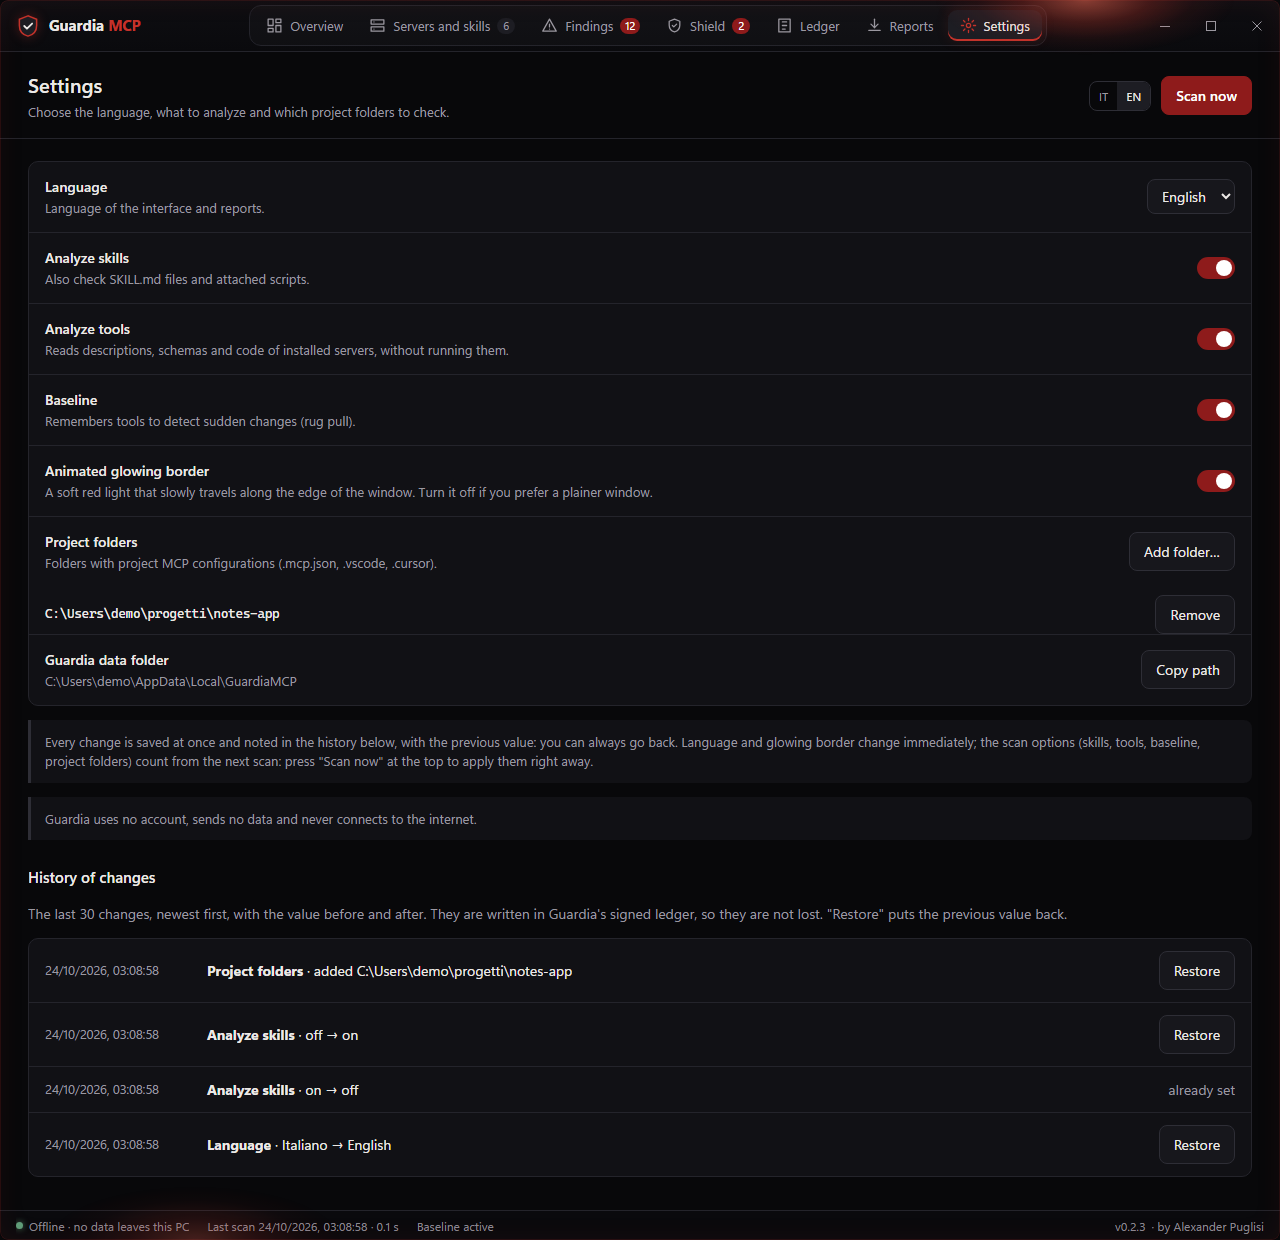
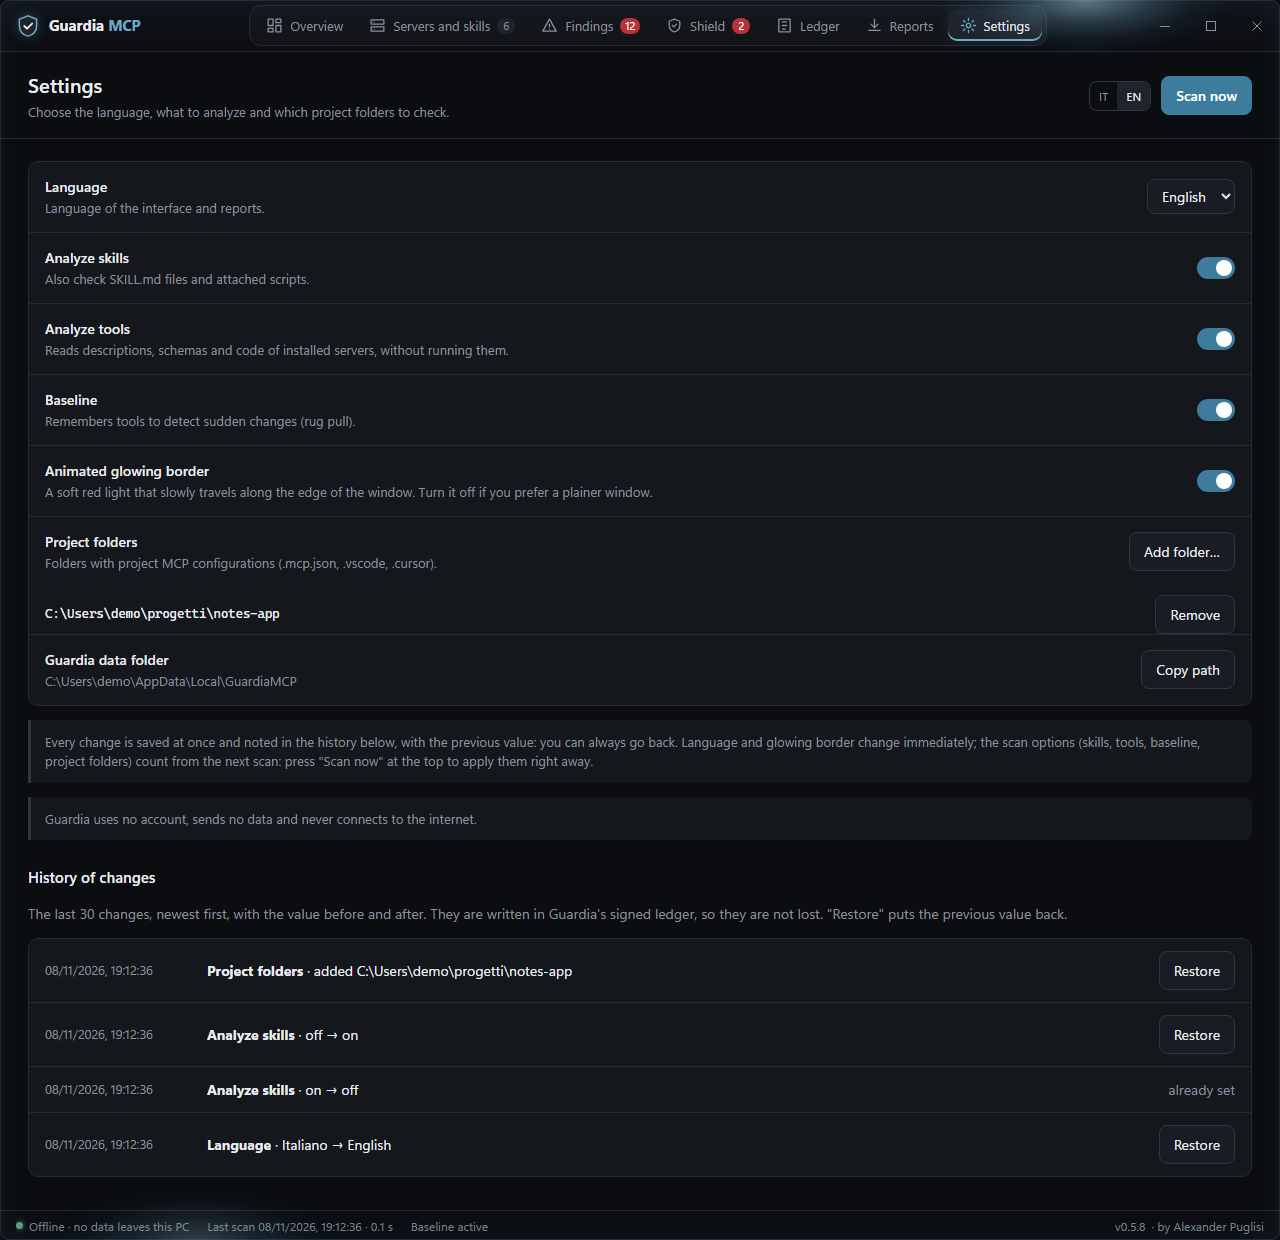
release: 0.5.8 — graphite identity
Bumps the version to 0.5.8 (pyproject, package and uv.lock), adds the
0.5.8 changelog entry, points the README download at the 0.5.8 zip and
describes the new steel-blue shield icon in the README and both guides.
The guide screenshots and the README demo GIFs are rebuilt from fake
data with the project's own scripts, so they show the new look.

diff --git a/src/guardia/__init__.py b/src/guardia/__init__.py
@@ -1,1 +1,1 @@
-__version__ = "0.5.7"
+__version__ = "0.5.8"

diff --git a/README.md b/README.md
@@ -40,7 +40,7 @@ asks you first.
 <sub>The demo runs on a fake PC made of fake servers and skills written for the purpose
 (`scripts/demo.py`): no real data, no real secrets.</sub>
 
-**Status: version 0.5.7 — v1 (static analysis) and v2 (real-time Shield for local stdio servers).**
+**Status: version 0.5.8 — v1 (static analysis) and v2 (real-time Shield for local stdio servers).**
 
 - `guardia inventory` — finds the MCP servers and skills configured on this PC in the supported apps
   (Claude Desktop, Claude Code, Cursor, VS Code, Windsurf, Gemini CLI, Codex, Copilot CLI) and lists
@@ -147,7 +147,7 @@ never uses the network). Restore it into a folder of your choice with
 
 Prefer pictures? Follow the [step-by-step guide with screenshots](docs/GUIDE.md).
 
-1. **Download** `GuardiaMCP-0.5.7-windows-x64.zip` and `SHA256SUMS.txt` from the project's
+1. **Download** `GuardiaMCP-0.5.8-windows-x64.zip` and `SHA256SUMS.txt` from the project's
    [**Releases**](https://github.com/AlexanderPuglisi/GuardiaMCP/releases/latest) page on GitHub
    and check the zip: the [guide](docs/GUIDE.md#1-download-and-check) has two PowerShell lines to
    paste, which must print `True`.
@@ -156,7 +156,7 @@ Prefer pictures? Follow the [step-by-step guide with screenshots](docs/GUIDE.md)
    Protected servers start Guardia from this folder: if you move it, press **Relink to this
    Guardia** in the *Shield* section; if you want to delete it, first remove the protection (see
    *Uninstall*).
-3. **Open `GuardiaMCP.exe`** (the one with the red shield icon). The first time Windows SmartScreen
+3. **Open `GuardiaMCP.exe`** (the one with the steel-blue shield icon). The first time Windows SmartScreen
    may warn you, because the program is not code-signed yet: choose *More info* → *Run anyway*. The
    first scan starts by itself.
 4. **Read the results.** The card at the top gives the verdict in one sentence; *Findings* lists the
@@ -319,7 +319,7 @@ conferma.
 <sub>La demo gira su un PC finto, fatto di server e skill finti scritti apposta
 (`scripts/demo.py`): nessun dato vero, nessun segreto vero.</sub>
 
-**Stato: versione 0.5.7 — v1 (analisi statica) e v2 (Scudo in tempo reale per i server locali stdio).**
+**Stato: versione 0.5.8 — v1 (analisi statica) e v2 (Scudo in tempo reale per i server locali stdio).**
 
 - `guardia inventario` — trova i server MCP e le skill configurati sul PC nelle app supportate
   (Claude Desktop, Claude Code, Cursor, VS Code, Windsurf, Gemini CLI, Codex, Copilot CLI) e li
@@ -434,7 +434,7 @@ Copia il file che crea su una chiavetta o un altro computer: quella è la tua co
 
 Preferisci le foto? Segui la [guida passo passo con le schermate](docs/GUIDA.md).
 
-1. **Scarica** `GuardiaMCP-0.5.7-windows-x64.zip` e `SHA256SUMS.txt` dalla pagina
+1. **Scarica** `GuardiaMCP-0.5.8-windows-x64.zip` e `SHA256SUMS.txt` dalla pagina
    [**Releases**](https://github.com/AlexanderPuglisi/GuardiaMCP/releases/latest) del progetto su
    GitHub e controlla lo zip: nella [guida](docs/GUIDA.md#1-scarica-e-controlla) ci sono due righe
    da incollare in PowerShell, che devono stampare `True`.
@@ -443,7 +443,7 @@ Preferisci le foto? Segui la [guida passo passo con le schermate](docs/GUIDA.md)
    I server protetti avviano Guardia da questa cartella: se la sposti, premi **Ricollega a questa
    Guardia** nella sezione *Scudo*; se vuoi cancellarla, prima togli la protezione (vedi
    *Disinstallare*).
-3. **Apri `GuardiaMCP.exe`** (quello con l'icona dello scudo rosso). La prima volta Windows
+3. **Apri `GuardiaMCP.exe`** (quello con l'icona dello scudo azzurro acciaio). La prima volta Windows
    SmartScreen può mostrare un avviso, perché il programma non è ancora firmato digitalmente: scegli
    *Ulteriori informazioni* → *Esegui comunque*. La prima scansione parte da sola.
 4. **Leggi i risultati.** Il riquadro in alto dà il verdetto in una frase; *Problemi* elenca i

diff --git a/docs/GUIDA.md b/docs/GUIDA.md
@@ -30,7 +30,7 @@ Non serve saper programmare. Ti servono Windows (provato su Windows 11) e cinque
    `C:\Users\TUO-NOME`. Si crea la cartella `GuardiaMCP`. Estrai sempre prima: i programmi non
    funzionano se li avvii da dentro lo zip.
 2. Dentro trovi due programmi:
-   - **`GuardiaMCP.exe`**: l'app con la finestra, quella che usi tu (icona dello scudo rosso, tipo
+   - **`GuardiaMCP.exe`**: l'app con la finestra, quella che usi tu (icona dello scudo azzurro acciaio, tipo
      *Applicazione*). Accanto c'è un piccolo file `GuardiaMCP.exe.config` con lo stesso nome:
      lascialo lì, non è il programma;
    - **`guardia.exe`**: la riga di comando; la usano anche lo Scudo e le app AI, non cancellarla.
@@ -174,7 +174,7 @@ qualcuno cancella o cambia una riga, Guardia se ne accorge.
 | «Controllo intelligente delle app ha bloccato un'app» | Windows 11 con il Controllo intelligente delle app attivo blocca i programmi non firmati, senza «Esegui comunque» | Installa dal codice sorgente (vedi il README), oppure spegni il Controllo intelligente delle app in *Sicurezza di Windows* → *Controllo delle app e del browser* (Windows lo lascia riaccendere solo reinstallando il sistema, quindi decidi con calma) |
 | L'antivirus cancella o blocca `guardia.exe` | Alcuni antivirus scambiano per minacce i programmi costruiti con PyInstaller | Controlla lo zip come al passo 1; se compare **True**, segnala il falso allarme al produttore dell'antivirus, oppure installa dal codice sorgente |
 | Un errore su `python312.dll` | Il programma è stato avviato da dentro lo zip | Prima estrai lo zip (passo 2) |
-| Il doppio clic non fa niente, o apre un file di testo | Hai aperto `GuardiaMCP.exe.config` | Doppio clic su **`GuardiaMCP.exe`**, quello con l'icona dello scudo rosso e tipo *Applicazione* |
+| Il doppio clic non fa niente, o apre un file di testo | Hai aperto `GuardiaMCP.exe.config` | Doppio clic su **`GuardiaMCP.exe`**, quello con l'icona dello scudo azzurro acciaio e tipo *Applicazione* |
 | `Failed to resolve Python.Runtime.Loader.Initialize` | Solo con la versione **0.2.0**: Windows bloccava le librerie dello zip scaricato | Usa l'ultima versione |
 | Problema **G12-006** «File di configurazione non analizzabile» | Guardia non è riuscita a leggere quel file, quindi i server che contiene non sono stati controllati e l'analisi risulta incompleta. **Trovato** dice la riga e cosa non va | Apri il file e correggilo. Nei percorsi di Windows dentro i file JSON scrivi `\\` (due barre) |
 | Accanto a un server compare **Ricollega a questa Guardia**, oppure il server non parte dopo **Proteggi** | La cartella di Guardia è stata spostata, rinominata o cancellata | Premi **Ricollega a questa Guardia**, poi riavvia l'app AI |

diff --git a/docs/GUIDE.md b/docs/GUIDE.md
@@ -30,7 +30,7 @@ No programming needed. You need Windows (tested on Windows 11) and five minutes.
    `C:\Users\YOUR-NAME`. A `GuardiaMCP` folder is created. Always extract first: the programs do not
    work when started from inside the zip.
 2. Inside there are two programs:
-   - **`GuardiaMCP.exe`**: the app with the window, the one you use (red shield icon, type
+   - **`GuardiaMCP.exe`**: the app with the window, the one you use (steel-blue shield icon, type
      *Application*). Next to it there is a small `GuardiaMCP.exe.config` file with the same name:
      leave it there, it is not the program;
    - **`guardia.exe`**: the command line; the Shield and the AI apps use it too, do not delete it.
@@ -169,7 +169,7 @@ changes a line, Guardia notices.
 | "Smart App Control blocked an app" | Windows 11 with Smart App Control on blocks unsigned programs, with no "Run anyway" | Install from source (see the README), or switch Smart App Control off in *Windows Security* → *App & browser control* (Windows lets you switch it back on only by reinstalling, so choose calmly) |
 | The antivirus deletes or blocks `guardia.exe` | Some antivirus products mistake programs built with PyInstaller for threats | Check the zip with step 1; if it prints **True**, report the false positive to your antivirus vendor, or install from source |
 | An error about `python312.dll` | The program was started from inside the zip | Extract the zip first (step 2) |
-| Double-clicking does nothing, or opens a text file | You opened `GuardiaMCP.exe.config` | Double-click **`GuardiaMCP.exe`**, the one with the red shield icon and type *Application* |
+| Double-clicking does nothing, or opens a text file | You opened `GuardiaMCP.exe.config` | Double-click **`GuardiaMCP.exe`**, the one with the steel-blue shield icon and type *Application* |
 | `Failed to resolve Python.Runtime.Loader.Initialize` | Only with version **0.2.0**: Windows blocked the libraries of the downloaded zip | Use the latest version |
 | Finding **G12-006** "Configuration file could not be analyzed" | Guardia could not read that file, so the servers in it were not checked and the analysis is marked incomplete. **Found** gives the line and what is wrong | Open the file and fix it. In Windows paths inside JSON files write `\\` (two backslashes) |
 | A server shows **Relink to this Guardia**, or does not start after **Protect** | Guardia's folder was moved, renamed or deleted | Press **Relink to this Guardia**, then restart the AI app |

diff --git a/CHANGELOG.md b/CHANGELOG.md
@@ -1,5 +1,35 @@
 # Changelog
 
+## 0.5.8 — 8 November 2026
+
+A visual release with a safety net under it. Before the report and the windows were redesigned,
+new tests locked in every protection they must keep; then GuardiaMCP moved to its new graphite
+identity.
+
+**Look**
+- The HTML report (`--format html`) is graphite with a steel accent: the shield mark and a
+  "100% offline" badge in the header, severity colours kept apart from the brand colour (red
+  critical, orange high, yellow medium), coloured summary cards with zero counts dimmed, a
+  severity border on every server, framed "found" values and a +/– hint on each entry. It follows
+  the system light theme on its own.
+- The app and the Shield confirmation window are graphite with a steel accent, and the glow that
+  circles the window border is now steel. Red now means only an alarm: problem and Shield
+  counters, danger buttons, error text, the reasons in a Shield warning, critical findings. High
+  findings are orange and medium ones yellow, as in the report.
+- A new program icon: a steel-blue shield.
+
+**Security**
+- New tests lock in what the redesign must not weaken: hostile server names, arguments and tool
+  descriptions reach the report only as text, never as markup; the report and both windows keep
+  exactly their strict Content Security Policies (no network, fonts, frames or inline code); no
+  stylesheet loads anything from outside. Nothing was loosened: the report still runs no scripts,
+  and Windows system fonts are used instead of web fonts so nothing is ever fetched.
+
+**Build**
+- `uv.lock` had fallen out of step with the version since 0.5.4, which stopped the CI install step
+  before any check ran. It is in sync again and CI is green.
+- The guides and their screenshots show the new look.
+
 ## 0.5.7 — 2 November 2026
 
 The last gap in the de-obfuscation started in 0.5.5. Folding look-alike letters caught an
